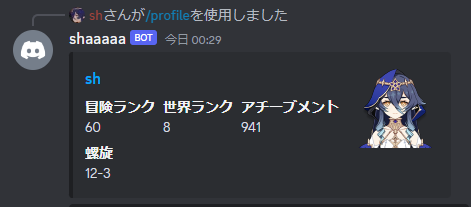
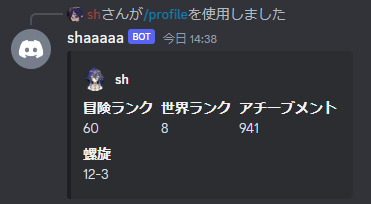
90

diff --git a/cogs/profile.py b/cogs/profile.py
@@ -2,22 +2,45 @@ import logging
 
 import discord
 from discord.ext import commands
-from enkanetwork import EnkaNetworkAPI
+from enkanetwork import EnkaNetworkAPI, EquipmentsType
 from enkanetwork.model.character import CharacterInfo
 
 client = EnkaNetworkAPI(lang='jp')
 
 logger = logging.getLogger(__name__)
 
-element_ja = {
+ja = {
     'Anemo': '風',
     'Cryo': '氷',
     'Dendro': '草',
     'Electro': '雷',
     'Geo': '岩',
     'Hydro': '水',
-    'Pyro': '炎'
+    'Pyro': '炎',
+    'EQUIP_BRACER': "花",
+    'EQUIP_NECKLACE': "羽",
+    'EQUIP_SHOES': "時計",
+    'EQUIP_RING': "杯",
+    'EQUIP_DRESS': "冠"
 }
+
+percent_stats = [
+    'FIGHT_PROP_HP_PERCENT',
+    'FIGHT_PROP_ATTACK_PERCENT',
+    'FIGHT_PROP_DEFENSE_PERCENT',
+    'FIGHT_PROP_CRITICAL',
+    'FIGHT_PROP_CRITICAL_HURT',
+    'FIGHT_PROP_CHARGE_EFFICIENCY',
+    'FIGHT_PROP_HEAL_ADD',
+    'FIGHT_PROP_PHYSICAL_ADD_HURT',
+    'FIGHT_PROP_FIRE_ADD_HURT',
+    'FIGHT_PROP_ELEC_ADD_HURT',
+    'FIGHT_PROP_WATER_ADD_HURT',
+    'FIGHT_PROP_WIND_ADD_HURT',
+    'FIGHT_PROP_ICE_ADD_HURT',
+    'FIGHT_PROP_ROCK_ADD_HURT',
+    'FIGHT_PROP_GRASS_ADD_HURT',
+]
 
 
 def create_player_embed(data):
@@ -26,11 +49,13 @@ def create_player_embed(data):
 
     # player.avatarの元素かなんかに合わせて色変えたい
     embed = discord.Embed(
-        title=player.nickname,
-        description=player.signature,
-        url=profile.url
+        description=player.signature
     )
-    embed.set_thumbnail(url=player.avatar.icon.url)
+    embed.set_author(
+        name=player.nickname,
+        url=profile.url,
+        icon_url=player.avatar.icon.url
+    )
     embed.add_field(
         name='冒険ランク',
         value=player.level
@@ -53,7 +78,7 @@ def create_player_embed(data):
 def create_character_embed(data, character: CharacterInfo):
     stats = character.stats
     bonuses = {
-        '与える治癒効果': stats.FIGHT_PROP_HEAL_ADD.to_percentage(),
+        '与える治療効果': stats.FIGHT_PROP_HEAL_ADD.to_percentage(),
         '物理ダメージ': stats.FIGHT_PROP_PHYSICAL_ADD_HURT.to_percentage(),
         '炎元素ダメージ': stats.FIGHT_PROP_FIRE_ADD_HURT.to_percentage(),
         '雷元素ダメージ': stats.FIGHT_PROP_ELEC_ADD_HURT.to_percentage(),
@@ -65,30 +90,100 @@ def create_character_embed(data, character: CharacterInfo):
     }
     bonus = max(bonuses, key=bonuses.get)
     if bonuses[bonus] == 0:
-        bonus = f'{element_ja[character.element]}元素ダメージ'
+        bonus = f'{ja[character.element]}元素ダメージ'
+
+    artifacts = []
+
+    for equip in character.equipments:
+        if equip.type == EquipmentsType.WEAPON:
+            weapon = equip
+        elif equip.type == EquipmentsType.ARTIFACT:
+            artifacts.append(equip)
 
     # 元素かなんかに合わせて色変えたい
     embed = discord.Embed(
-        title=data.player.nickname,
-        url=data.profile.url
+        title=character.name,
+        description=f'Lv.{character.level} / C{character.constellations_unlocked} / 好感度{character.friendship_level}'
+    )
+    embed.set_author(
+        name=data.player.nickname,
+        url=data.profile.url,
+        icon_url=data.player.avatar.icon.url
     )
     embed.set_thumbnail(url=character.image.icon.url)
     embed.add_field(
-        name=character.name,
+        name='ステータス',
         value=f'''
-            Level: `{character.level}`
-            好感度: `{character.friendship_level}`
-
-            HP: `{stats.FIGHT_PROP_MAX_HP.to_rounded()}`
-            攻撃力: `{stats.FIGHT_PROP_CUR_ATTACK.to_rounded()}`
-            防御力: `{stats.FIGHT_PROP_CUR_DEFENSE.to_rounded()}`
-            元素熟知: `{stats.FIGHT_PROP_ELEMENT_MASTERY.to_rounded()}`
-            会心率: `{stats.FIGHT_PROP_CRITICAL.to_percentage()}%`
-            会心ダメージ: `{stats.FIGHT_PROP_CRITICAL_HURT.to_percentage()}%`
-            元素チャージ効率: `{stats.FIGHT_PROP_CHARGE_EFFICIENCY.to_percentage()}%`
-            {bonus}: `{bonuses[bonus]}%`
+```ansi
+\u001b[0mHP: \u001b[36m{stats.FIGHT_PROP_MAX_HP.to_rounded()}
+\u001b[0m攻撃力: \u001b[36m{stats.FIGHT_PROP_CUR_ATTACK.to_rounded()}
+\u001b[0m防御力: \u001b[36m{stats.FIGHT_PROP_CUR_DEFENSE.to_rounded()}
+\u001b[0m元素熟知: \u001b[36m{stats.FIGHT_PROP_ELEMENT_MASTERY.to_rounded()}
+\u001b[0m会心率: \u001b[36m{stats.FIGHT_PROP_CRITICAL.to_percentage()}%
+\u001b[0m会心ダメージ: \u001b[36m{stats.FIGHT_PROP_CRITICAL_HURT.to_percentage()}%
+\u001b[0m元素チャージ効率: \u001b[36m{stats.FIGHT_PROP_CHARGE_EFFICIENCY.to_percentage()}%
+\u001b[0m{bonus}: \u001b[36m{bonuses[bonus]}%
+```
         '''
     )
+
+    texts = []
+    for i, name in enumerate(['通常攻撃', '元素スキル', '元素爆発']):
+        skill = character.skills[i]
+        texts.append(
+            f'\u001b[0m{name}: \u001b[{"34" if skill.is_boosted else "36" }m{skill.level}')
+    text = '\n'.join(texts)
+    embed.add_field(
+        name='天賦',
+        value=f'''
+```ansi
+{text}
+```
+        '''
+    )
+
+    texts = [
+        f'\u001b[1;36m{weapon.detail.name}',
+        f'\u001b[0mLevel: \u001b[36m{weapon.level}',
+        f'\u001b[0m精錬ランク: \u001b[36m{weapon.refinement}',
+        '',
+        f'\u001b[0m基礎攻撃力: \u001b[36m{weapon.detail.mainstats.value}'
+    ]
+    if weapon.detail.substats:
+        substat = weapon.detail.substats[0]
+        texts.append(
+            f'\u001b[0m{substat.name}: \u001b[36m{substat.value}{"%" if substat.prop_id in percent_stats else ""}')
+    text = '\n'.join(texts)
+    embed.add_field(
+        name='武器',
+        value=f'''
+```ansi
+{text}
+```
+        '''
+    )
+
+    for artifact in artifacts:
+        mainstat = artifact.detail.mainstats
+        substats = artifact.detail.substats
+        texts = [
+            f'\u001b[1;33m{artifact.detail.name} \u001b[36m+{artifact.level}',
+            f'\u001b[0m{mainstat.name}: \u001b[36m{mainstat.value}{"%" if mainstat.prop_id in percent_stats else ""}'
+        ]
+        if substats:
+            texts.append('')
+            for stat in substats:
+                texts.append(
+                    f'\u001b[0m{stat.name}: \u001b[36m{stat.value}{"%" if stat.prop_id in percent_stats else ""}')
+        text = '\n'.join(texts)
+        embed.add_field(
+            name=ja[artifact.detail.artifact_type.value],
+            value=f'''
+```ansi
+{text}
+```
+            '''
+        )
     return embed
 
 
